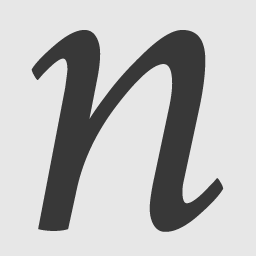
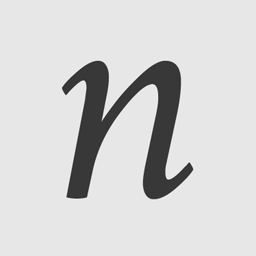
style

Changed region(s): [[0.125, 0.0938, 0.875, 0.9062]]

diff --git a/app/assets/stylesheets/application.sass b/app/assets/stylesheets/application.sass
@@ -1,18 +1,20 @@
 @import 'eric-meyer-reset'
-@import url('https://fonts.googleapis.com/css?family=Crimson+Text:400,400i,700,700i')
+@import url('https://fonts.googleapis.com/css?family=EB+Garamond:400,400i')
 
 body
     margin: 0
 
 h1, p, a
-    font-family: 'Crimson Text', serif
+    font-family: 'EB Garamond', serif
 
 h1
-    font-size: 50px
+    font-size: 46px
     font-style: italic
     font-weight: normal
-    line-height: 44px
-    margin: 20px 0 20px 0
+    line-height: 41px
+    margin: 10px -10px
+    padding: 10px
+    letter-spacing: -2px
 
 p
     font-size: 20px
@@ -32,10 +34,10 @@ img
     &__image
     &__texts
         max-width: 100%
-        padding: 20px 20px 20px 40px
+        padding: 20px
         &__title
-            overflow: hidden
-            padding-bottom: 10px
+            overflow-x: scroll
+            overflow-y: hidden
         &__source
             display: inline-block
             img
